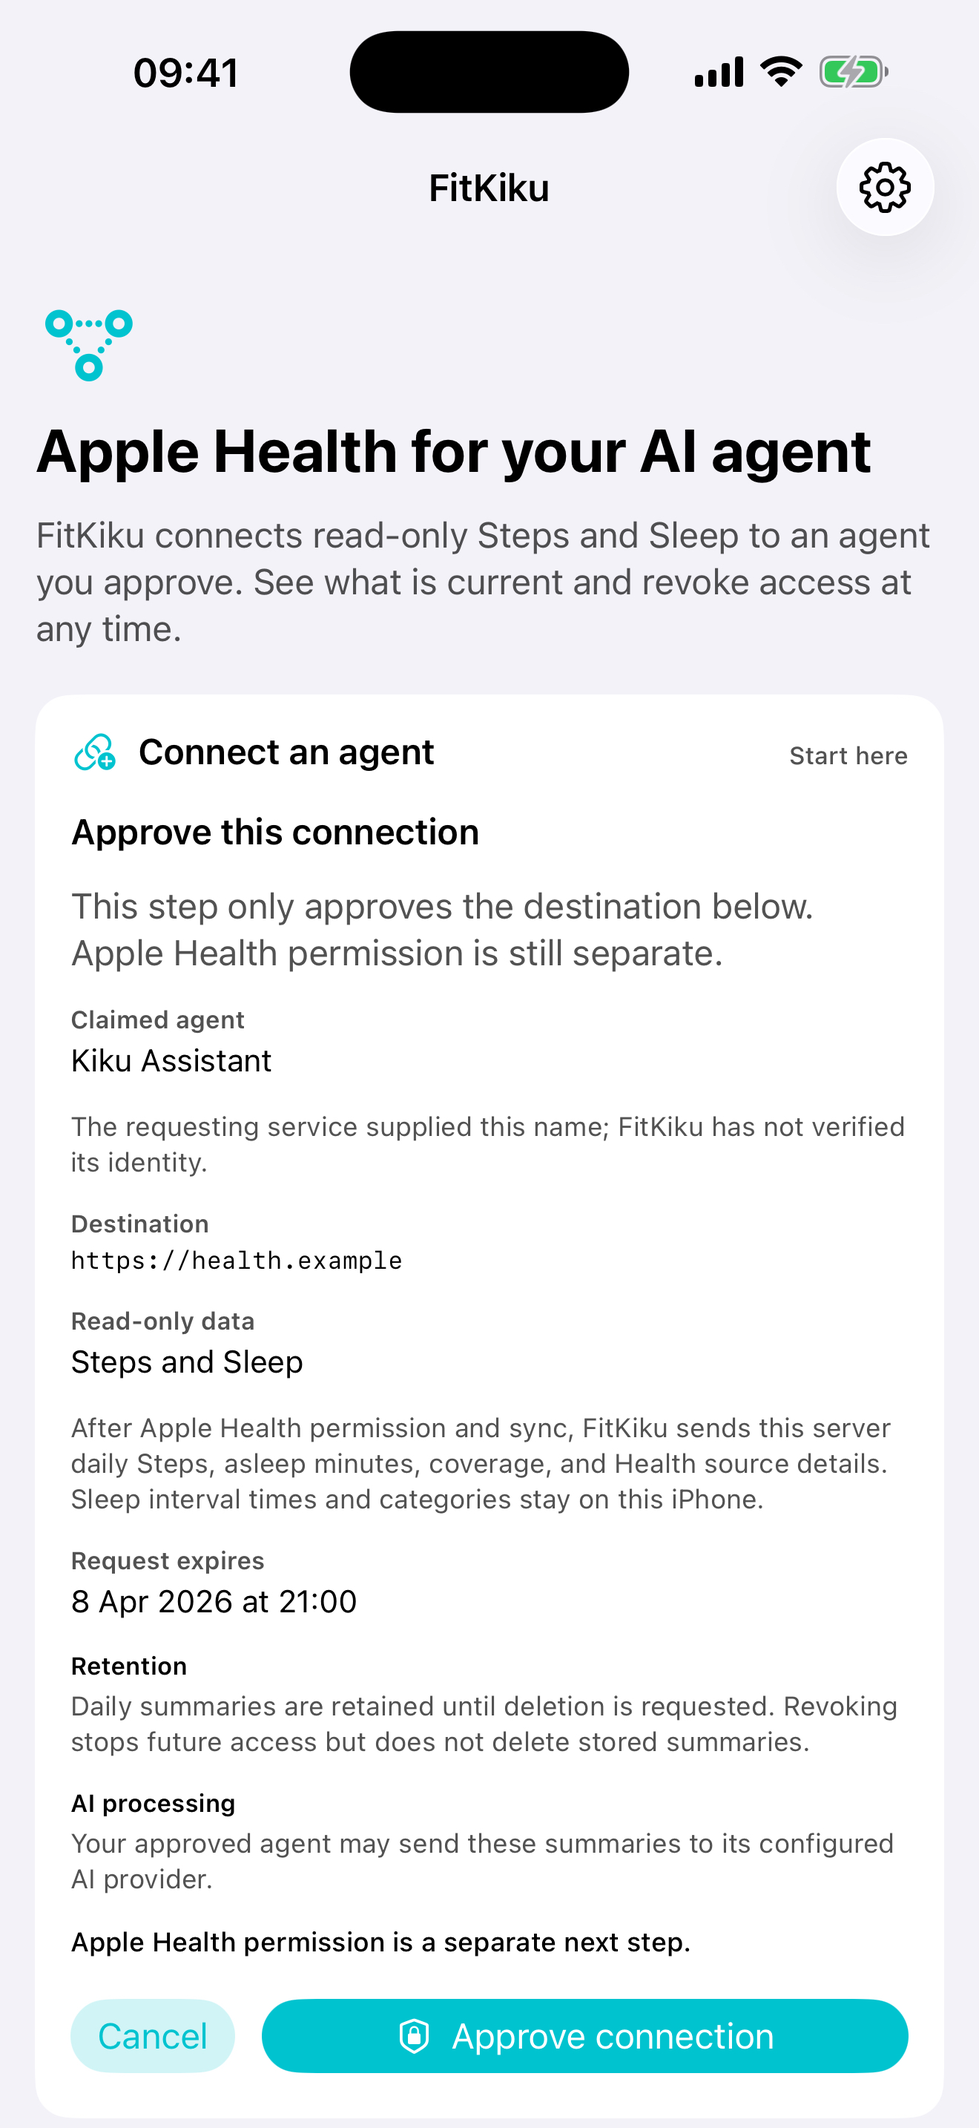
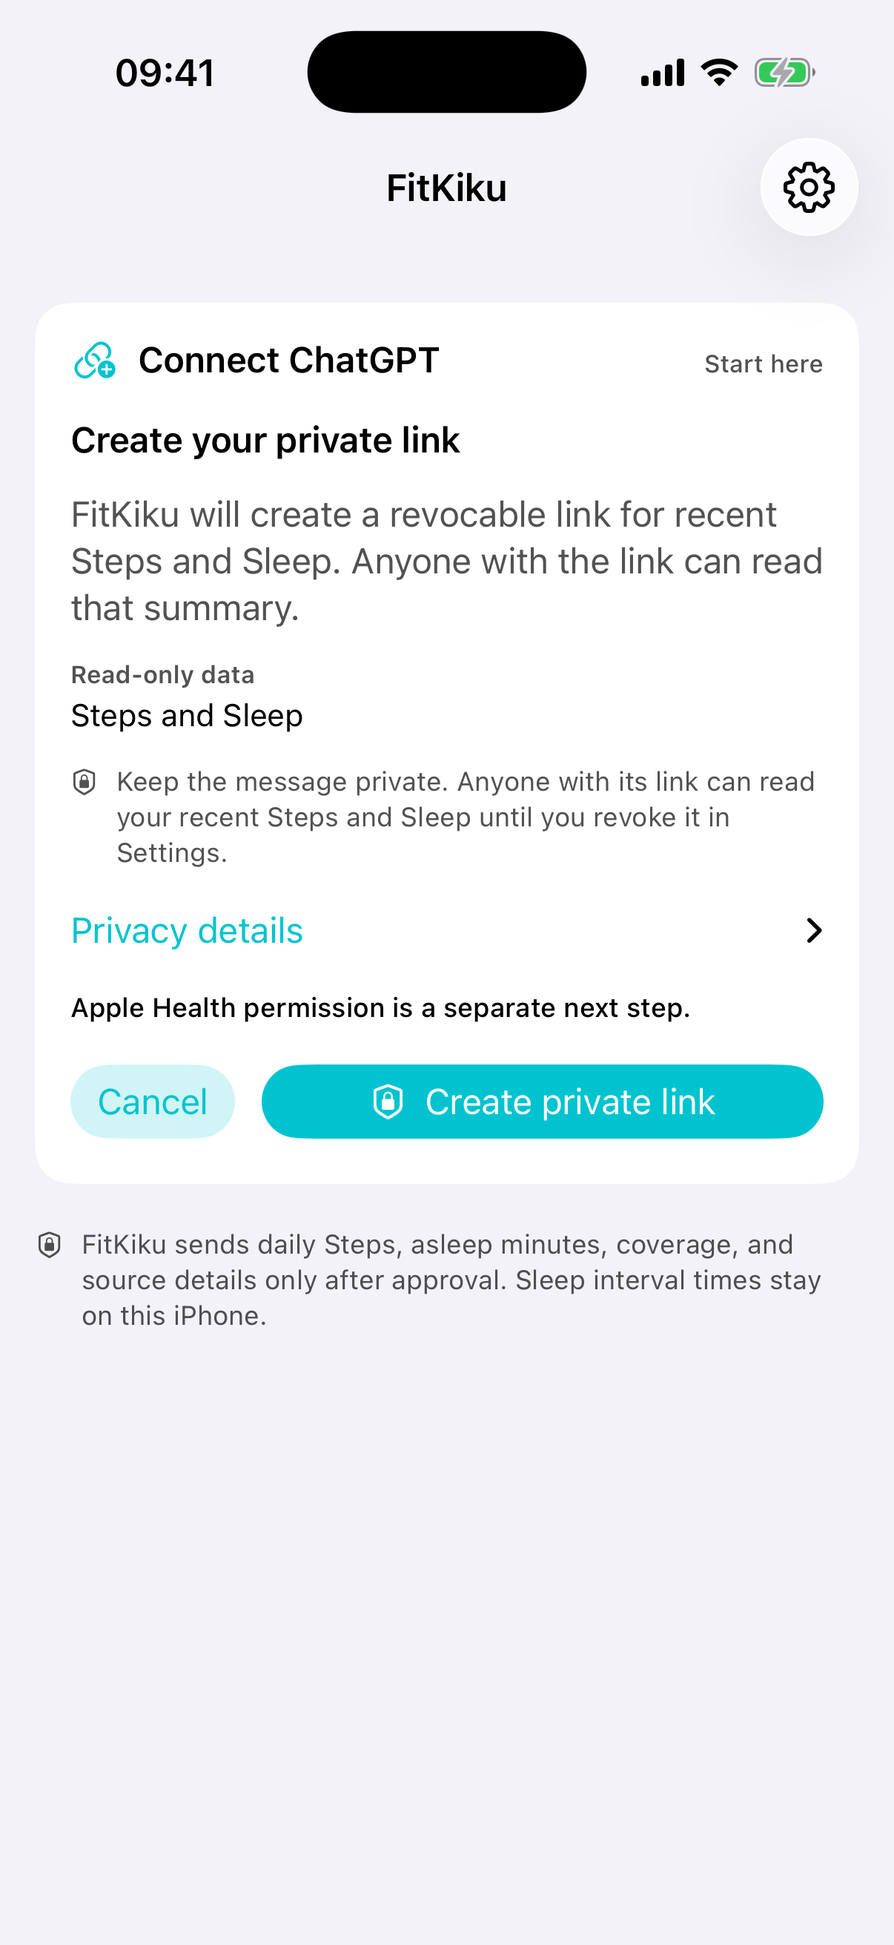
Position FitKiku around AI health context

diff --git a/ios/FitKiku/FitKiku/ContentView.swift b/ios/FitKiku/FitKiku/ContentView.swift
@@ -107,9 +107,9 @@ struct ContentView: View {
                 .font(.system(size: 36, weight: .semibold))
                 .foregroundStyle(.teal)
                 .accessibilityHidden(true)
-            Text("Your health, ready for ChatGPT")
+            Text("Let your AI use your steps and sleep")
                 .font(.title.bold())
-            Text("FitKiku keeps recent Steps and Sleep behind one private, read-only link. You decide when to share or revoke it.")
+            Text("FitKiku privately brings recent Steps and Sleep to ChatGPT or another AI that can open links. No daily retyping. Revoke access anytime.")
             .font(.body)
             .foregroundStyle(Color.fitKikuSecondaryText)
         }
@@ -132,7 +132,7 @@ struct ContentView: View {
                 } else if let recovery = model.pendingLegacyPairing {
                     legacyConsentCard(recovery)
                 } else {
-                    Text("FitKiku creates a private link. Then allow Steps and Sleep and copy one prepared message into ChatGPT.")
+                    Text("FitKiku creates your private read-only link. Approve Steps and Sleep, then copy one prepared message into ChatGPT.")
                         .foregroundStyle(Color.fitKikuSecondaryText)
 
                     Button {
@@ -274,7 +274,7 @@ struct ContentView: View {
                 DisclosureGroup("Privacy details") {
                     VStack(alignment: .leading, spacing: 10) {
                         Text(NativeHealthDisclosure.outbound)
-                        Text("Only after you paste or share the prepared prompt. ChatGPT may retain the link and returned summary under its own policy.")
+                        Text("Only after you paste or share the prepared message. The AI service may retain the link and returned summary under its own policy.")
                     }
                     .font(.footnote)
                     .foregroundStyle(Color.fitKikuSecondaryText)
@@ -407,14 +407,14 @@ struct ContentView: View {
         card {
             VStack(alignment: .leading, spacing: 14) {
                 sectionHeader(
-                    title: "Use with ChatGPT",
+                    title: "Use with your AI",
                     detail: model.privateShareURL == nil ? "One tap" : "Ready",
                     systemImage: "message.fill",
                     tint: .teal
                 )
 
                 if let shareURL = model.privateShareURL {
-                    Text("Copy one prepared message into an ordinary ChatGPT chat. It includes your private link and asks ChatGPT to fetch it again for every health answer.")
+                    Text("Copy the prepared message into ChatGPT, or share it with another AI that can open links. It includes your private link and requires a fresh read before relevant answers.")
                     .foregroundStyle(Color.fitKikuSecondaryText)
 
                     Button {
@@ -589,7 +589,7 @@ struct ContentView: View {
                         .buttonStyle(.bordered)
 
                         ShareLink(item: FitKikuChatPrompt.message(shareURL: shareURL)) {
-                            actionLabel("Share with ChatGPT", systemImage: "square.and.arrow.up")
+                            actionLabel("Share with your AI", systemImage: "square.and.arrow.up")
                         }
                         .buttonStyle(.bordered)
 
@@ -833,8 +833,8 @@ struct ContentView: View {
         switch delivery.dataFreshness {
         case .current:
             return delivery.hasCurrentAgentRead
-                ? String(localized: "ChatGPT or another approved agent fetched the latest server update.")
-                : String(localized: "Recent Steps and Sleep reached FitKiku. Paste your prepared prompt when you want ChatGPT to read them.")
+                ? String(localized: "An approved AI fetched the latest server update.")
+                : String(localized: "Recent Steps and Sleep reached FitKiku. Paste the prepared message when you want your AI to read them.")
         case .stale:
             return String(localized: "Daily Steps and Sleep are connected, but some recent delivery still needs attention.")
         case .unknown:
@@ -875,7 +875,7 @@ enum FitKikuChatPrompt {
     static func message(shareURL: URL) -> String {
         let format = NSLocalizedString(
             "fitkiku.chatgpt.prompt",
-            value: "Open this private FitKiku URL now, and open it again before every health-related answer:\n%@\n\nThis is a normal HTTPS JSON URL. Do not look for a FitKiku connector or Pair Link; none is required. Use only the Steps and Sleep daily aggregates returned by that URL. Always state data_freshness and latest_local_date. Treat missing dates or categories as unknown, never as zero. If data_freshness is not current, say clearly that the data may be stale. The link is read-only. Never repeat or expose the private URL in your answer.",
+            value: "Use this private FitKiku URL when answering me about my activity, sleep, recovery, or routine. Open it now and again before each such answer:\n%@\n\nThis is a normal HTTPS JSON URL. Do not look for a FitKiku connector or Pair Link; none is required. Use only the Steps and Sleep daily aggregates returned by that URL. Always state data_freshness and latest_local_date. Treat missing dates or categories as unknown, never as zero. If data_freshness is not current, say clearly that the data may be stale. The link is read-only. Never repeat or expose the private URL in your answer.",
             comment: "Prepared message copied by the user into ChatGPT"
         )
         return String(format: format, locale: Locale.current, shareURL.absoluteString)
@@ -1007,7 +1007,7 @@ private struct SettingsView: View {
                             }
                             .disabled(model.isBusy)
                         } else {
-                            Text("No private ChatGPT link exists for this connection.")
+                            Text("No private AI link exists for this connection.")
                                 .foregroundStyle(Color.fitKikuSecondaryText)
                             Button("Create private link") {
                                 Task { await model.createPrivateShareLink() }
@@ -1022,7 +1022,7 @@ private struct SettingsView: View {
                         item: FitKikuLinks.appStore,
                         subject: Text("FitKiku"),
                         message: Text(
-                            "FitKiku connects read-only Steps and Sleep to a personal AI agent you approve."
+                            "FitKiku lets the AI you choose use recent read-only Steps and Sleep without daily retyping."
                         )
                     ) {
                         Label("Share FitKiku", systemImage: "square.and.arrow.up")

diff --git a/ios/FitKiku/FitKiku/AppModel.swift b/ios/FitKiku/FitKiku/AppModel.swift
@@ -204,7 +204,7 @@ final class AppModel: ObservableObject {
         do {
             let link = try await transport.issuePublicAgentGrant(
                 baseURL: Self.hostedServiceURL,
-                agentName: String(localized: "FitKiku private ChatGPT link")
+                agentName: String(localized: "FitKiku private AI link")
             )
             let preview = try await transport.previewAgentGrant(
                 baseURL: link.baseURL,
@@ -306,10 +306,10 @@ final class AppModel: ObservableObject {
             if consent.createsPrivateShareLink {
                 do {
                     try await rotatePrivateShareLinkUsingStoredDevice()
-                    statusMessage = String(localized: "Connected. Allow Apple Health next, then copy your private ChatGPT prompt.")
+                    statusMessage = String(localized: "Connected. Allow Apple Health next, then copy the prepared message for your AI.")
                 } catch {
                     errorMessage = String(
-                        format: String(localized: "Connected, but the private ChatGPT link could not be created. Try again below. %@"),
+                        format: String(localized: "Connected, but the private AI link could not be created. Try again below. %@"),
                         locale: Locale.current,
                         error.localizedDescription
                     )
@@ -330,7 +330,7 @@ final class AppModel: ObservableObject {
         defer { isBusy = false }
         do {
             try await rotatePrivateShareLinkUsingStoredDevice()
-            statusMessage = String(localized: "Private ChatGPT link created. Keep it private; anyone with it can read your recent Steps and Sleep.")
+            statusMessage = String(localized: "Private AI link created. Keep it private; anyone with it can read your recent Steps and Sleep.")
         } catch {
             errorMessage = error.localizedDescription
         }
@@ -356,7 +356,7 @@ final class AppModel: ObservableObject {
             guard outcome == "revoked" else { throw APIClientError.invalidResponse }
             privateShareURL = nil
             try keychain.deletePrivateShareURL()
-            statusMessage = String(localized: "Private ChatGPT link revoked. The iPhone connection remains active.")
+            statusMessage = String(localized: "Private AI link revoked. The iPhone connection remains active.")
         } catch {
             errorMessage = error.localizedDescription
         }
@@ -810,7 +810,7 @@ extension AppModel {
                 baseURL: URL(string: "https://health.example")!,
                 pairingToken: "synthetic-demo-token-not-a-credential",
                 preview: AgentGrantPreview(
-                    assertedAgentName: String(localized: "FitKiku private ChatGPT link"),
+                    assertedAgentName: String(localized: "FitKiku private AI link"),
                     serverOrigin: "https://health.example",
                     scopes: [.steps, .sleep],
                     expiresAt: "2026-04-08T18:00:00Z",

diff --git a/ios/FitKiku/FitKikuTests/APIClientTests.swift b/ios/FitKiku/FitKikuTests/APIClientTests.swift
@@ -354,14 +354,14 @@ final class APIClientTests: XCTestCase {
         let baseURL = try APIClient.validatedBaseURL("https://fitkiku-origin.kikuai.dev")
         let request = try APIClient().makePublicAgentGrantRequest(
             baseURL: baseURL,
-            agentName: "  FitKiku private ChatGPT link  "
+            agentName: "  FitKiku private AI link  "
         )
         let object = try jsonObject(XCTUnwrap(request.httpBody))
 
         XCTAssertEqual(request.httpMethod, "POST")
         XCTAssertEqual(request.url?.path, "/healthkit/public/app-grants")
         XCTAssertEqual(Set(object.keys), ["agent_name"])
-        XCTAssertEqual(object["agent_name"] as? String, "FitKiku private ChatGPT link")
+        XCTAssertEqual(object["agent_name"] as? String, "FitKiku private AI link")
         XCTAssertNil(request.value(forHTTPHeaderField: "Authorization"))
     }
 
@@ -1310,8 +1310,8 @@ final class APIClientTests: XCTestCase {
                 || message.contains("они не нужны")
         )
         XCTAssertTrue(
-            message.contains("open it again before every health-related answer")
-                || message.contains("открывай её заново перед каждым ответом о здоровье")
+            message.contains("again before each such answer")
+                || message.contains("заново перед каждым таким ответом")
         )
         XCTAssertTrue(
             message.contains("unknown, never as zero")
@@ -1478,7 +1478,7 @@ final class APIClientTests: XCTestCase {
         XCTAssertEqual(partial.deliveryStatus?.hasCurrentAgentRead, false)
         XCTAssertEqual(
             consent.pendingAgentConsent?.preview.assertedAgentName,
-            String(localized: "FitKiku private ChatGPT link")
+            String(localized: "FitKiku private AI link")
         )
         XCTAssertFalse(consent.isPaired)
         XCTAssertTrue(revoked.localCredentialCleanupPending)

diff --git a/docs/app-store/metadata/en-US.md b/docs/app-store/metadata/en-US.md
@@ -1,10 +1,11 @@
 # FitKiku App Store Metadata — English (U.S.)
 
-> Document class: release input. This is the durable source for version 1.0
-> metadata. Build `1.0 (3)` passed review and is publicly available free in the
-> configured non-EU storefronts. Apple's public catalog reports a 2026-08-27
-> release date for App ID `6801516904`. EU-27 storefronts remain disabled.
-> Never commit reviewer credentials or a live Pair Link here.
+> Document class: release input. This records the released version 1.0
+> metadata and the separate version 1.1 candidate. Build `1.0 (3)` passed
+> review and is publicly available free in the configured non-EU storefronts.
+> Apple's public catalog reports a 2026-08-27 release date for App ID
+> `6801516904`. EU-27 storefronts remain disabled. Never commit reviewer
+> credentials or a live Pair Link here.
 
 ## App information
 
@@ -44,7 +45,7 @@ It avoids repeating the name and the strongest subtitle words while covering
 the agent, portability, automation, and trust jobs. Do not add competitor names
 or Apple trademarks as keywords.
 
-## Description
+## Released version 1.0 description
 
 FitKiku connects recent Apple Health context to a personal AI agent you
 approve.
@@ -73,12 +74,38 @@ foreground catch-up when recent delivery needs attention.
 FitKiku is a fitness-data connection and accountability tool. It is not
 medical diagnosis, treatment, clearance, or emergency care.
 
-### Next-version opening copy candidate — not applied in App Store Connect
+## Version 1.1 description candidate — not applied in App Store Connect
 
-Stop retyping your Steps and Sleep into your AI agent.
+Let the AI you already use take your recent Steps and Sleep into account —
+without retyping them every day.
 
-FitKiku gives a compatible personal AI agent recent read-only context after
-you approve the destination on your iPhone.
+FitKiku is a separate iPhone app. It privately delivers recent read-only Steps
+and Sleep to ChatGPT or another AI that can open a normal HTTPS link.
+
+Tap Connect ChatGPT, approve one private read-only link, grant Steps and Sleep
+access, and copy one prepared message into your chat. No server address,
+password, pairing code, or Health export is needed. Compatible agents can still
+use the Advanced Pair Link flow.
+
+FitKiku helps you:
+
+- review daily Steps and Sleep from Apple Health;
+- keep missing or partial coverage visible instead of treating it as zero;
+- see freshness and recent delivery status;
+- revoke future device delivery and agent access;
+- delete an anonymous FitKiku connection and its synced server data;
+- use Apple Watch data after it reaches Apple Health on the paired iPhone.
+
+FitKiku never writes to Apple Health. It contains no advertising or tracking
+SDK. Health summaries are sent only after you approve a compatible FitKiku
+destination and grant Apple Health read access.
+
+Background delivery is best effort. Opening the app can perform a bounded
+foreground catch-up when recent delivery needs attention.
+
+FitKiku does not include an AI coach, expose everything in Apple Health, or
+promise real-time delivery. It is a fitness-data connection and accountability
+tool, not medical diagnosis, treatment, clearance, or emergency care.
 
 ## Promotional text
 
@@ -87,7 +114,7 @@ or App Store availability before each claim is true.
 
 Next-version candidate, subject to a final truth and length check:
 
-`Stop retyping Steps and Sleep. Connect a compatible personal AI agent with visible freshness and revocable read-only access.`
+`Let your AI use recent Steps and Sleep without daily retyping. See freshness, keep missing data honest, and revoke read-only access anytime.`
 
 ## Version 1.0 release notes
 
@@ -102,6 +129,10 @@ personal AI agents.
 
 ## Next-version release-note candidate
 
+- Leads with the result: let your AI use recent Steps and Sleep without daily
+  retyping.
+- Creates one private read-only link inside FitKiku; no server, password, Pair
+  Link, or setup code is needed for the primary flow.
 - Distinguishes current server delivery from the agent reading that update.
 - Adds one copyable or shareable prompt when the agent still needs to fetch.
 - Adds native Share and Rate actions in Settings.

diff --git a/docs/app-store/screenshots/marketing-en-US-v2/README.md b/docs/app-store/screenshots/marketing-en-US-v2/README.md
@@ -1,0 +1,77 @@
+# FitKiku App Store marketing pack v2
+
+This is a local-only English iPhone marketing pack for the next editable
+FitKiku product page. It contains five opaque 1320x2868 JPEGs in
+`iphone-6.9/`, ordered for App Store review. This task does not upload, remove,
+or replace App Store Connect media.
+
+## Narrative
+
+1. **Steps + Sleep → your AI** — state the product result in one glance.
+2. **No daily retyping** — kill the recurring manual-input pain.
+3. **Consent** — make approval before sharing visible.
+4. **Narrow scope** — show that only Steps and Sleep are shared read-only.
+5. **Freshness** — make the partial-delivery state and missing-date warning
+   visible instead of implying that every read is complete.
+
+The deck uses a black/white base with a restrained cyan accent, three dark
+slides, two light slides, and varied template layouts. No slide claims an
+uptime SLA, medical result, continuous
+background process, external-agent compatibility matrix, or proven retention.
+
+## Source mapping
+
+All phone imagery is deterministic synthetic app capture already checked into
+the repository:
+
+| Marketing file | Template slide | Raw source |
+|---|---|---|
+| `01-health-bridge.jpg` | hero | `../en-US/01-first-run.jpg` |
+| `02-one-prompt.jpg` | device-bottom | `../en-US/01-first-run.jpg` |
+| `03-consent.jpg` | device-top | `../en-US/02-consent.jpg` |
+| `04-health-context.jpg` | two-devices | `../en-US/03-current-delivery.jpg` + `01-first-run.jpg` |
+| `05-trust.jpg` | device-top trust card | `../en-US/04-partial-delivery.jpg` |
+
+The source captures contain synthetic example values only. No owner Health
+payload, credential, Pair Link, device identifier, or private service data was
+used.
+
+## Reproduction
+
+The composition was regenerated on 2026-08-30 through the current local
+`app-store-screenshots` skill template in a disposable directory. The skill
+was not added as a FitKiku dependency. `bun install --frozen-lockfile` and
+`bun run build` passed, and the editor reported a successful export of 20 PNGs:
+five slides at 1320x2868, 1284x2778, 1206x2622, and 1125x2436.
+
+The project state is `app-store-screenshots.json` with `schemaVersion: 2`,
+locale `en`, device `iphone`, and `connectedCanvas: false`. Copy the four raw
+captures into the template paths named by that JSON, copy the submitted 1024px
+app icon to `/public/app-icon.png`, and add this theme to the template's
+`THEMES` map before exporting:
+
+```text
+id: fitkiku-mono
+bg: #F4F5F3
+bgAlt: #05090A
+fg: #111415
+fgAlt: #F7FAFA
+accent: #12BFCD
+muted: #5B6164
+```
+
+The checked-in files were flattened from the 1320x2868 export to opaque JPEGs.
+`file` and `sips` confirm RGB JPEG data, no alpha, and exact 1320x2868
+dimensions for all five files. Full-size inspection and 420px storefront-
+thumbnail inspection found no clipping, blank regions, private data, or
+unreadable headlines.
+
+The English raw capture set was regenerated from the benefit-led source with
+an explicit `en_US` launch locale. A separate `ru_RU` capture set records the
+complete Russian localization. Both use deterministic synthetic values; no
+owner Health data or private capability was present.
+
+## Draft status
+
+This pack is prepared for the next editable App Store product page. Before a
+future upload, re-check every claim against the exact binary being submitted.

diff --git a/README.md b/README.md
@@ -6,15 +6,19 @@
 
 [Download FitKiku on the App Store](https://apps.apple.com/app/id6801516904)
 
-FitKiku is an Apple Health connector for personal AI agents. Its native iPhone
-app gives an agent you approve recent, read-only Apple Health context after
-explicit user approval.
+FitKiku lets the AI you already use take your recent Steps and Sleep into
+account. Its native iPhone app privately delivers those two read-only
+categories to ChatGPT or another AI that can open links, after explicit user
+approval.
+
+FitKiku remains a separate data product. It is not an AI coach, does not expose
+everything in Apple Health, and does not promise real-time delivery.
 
 The current product reads only daily Steps and Sleep. Released version 1.0
 supports explicit agent pairing, visible delivery freshness, revocation, and
 anonymous in-app account deletion without modifying Apple Health. The next 1.1
 source candidate replaces the normal pairing ceremony with one app-created,
-private, revocable link and a prepared message for ChatGPT.
+private, revocable link and a prepared message for the user's AI.
 
 ## Current status
 
@@ -81,10 +85,11 @@ In the 1.1 source candidate, the normal flow happens inside the iPhone app:
    private ChatGPT chat.
 
 The prepared message already contains the user's actual private URL. It tells
-ChatGPT to open that normal HTTPS JSON URL again before each health-related
-answer, report freshness, preserve missing values as unknown, and never repeat
-the URL. No native FitKiku connector or Pair Link is required for this path;
-the chat only needs the ability to open HTTPS links.
+the AI to open that normal HTTPS JSON URL again before relevant answers about
+activity, sleep, recovery, or routine, report freshness, preserve missing
+values as unknown, and never repeat the URL. No native FitKiku connector or
+Pair Link is required for this path; the AI only needs the ability to open
+HTTPS links.
 
 The URL is a bearer credential. Anyone who receives it can read the bounded
 recent summary until the user replaces or revokes the link in FitKiku Settings.
@@ -105,7 +110,7 @@ HTTPS destination the user approves. Sleep interval timestamps and categories
 stay on the iPhone.
 
 Missing data is never converted to zero. FitKiku is not medical diagnosis,
-treatment, clearance, or emergency care.
+treatment, clearance, emergency care, or a built-in AI coach.
 
 Release 1.0 assigns each daily summary to the `Europe/Kyiv` calendar. Users
 whose ordinary day boundary differs should treat multi-timezone grouping as an
